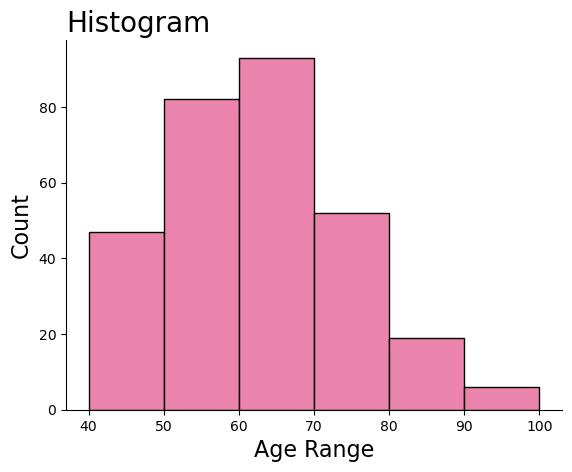
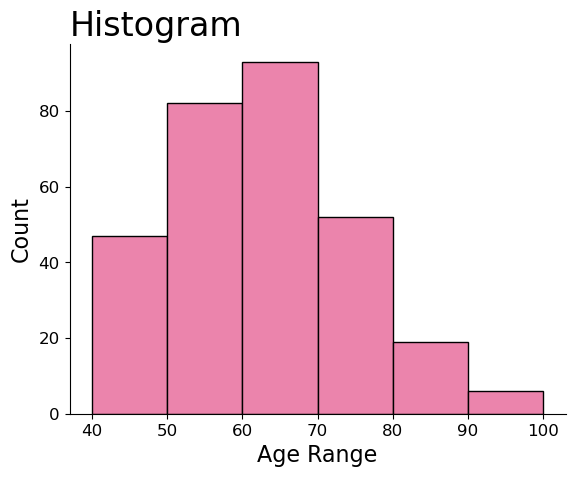
changed resolution of plot

Changed region(s): [[0.0, 0.0, 0.9808, 0.9788]]

diff --git a/index.html b/index.html
@@ -646,7 +646,7 @@ dtype: int64</code></pre>
 <pre><code>40.0</code></pre>
 </div>
 </div>
-<div class="cell" data-execution_count="62">
+<div class="cell" data-execution_count="69">
 <details open="">
 <summary>Code</summary>
 <div class="sourceCode cell-code" id="cb22"><pre class="sourceCode python code-with-copy"><code class="sourceCode python"><span id="cb22-1"><a href="#cb22-1" aria-hidden="true" tabindex="-1"></a>Figure1, Axes1 <span class="op">=</span> plt.subplots()</span>
@@ -658,18 +658,22 @@ dtype: int64</code></pre>
 <span id="cb22-7"><a href="#cb22-7" aria-hidden="true" tabindex="-1"></a></span>
 <span id="cb22-8"><a href="#cb22-8" aria-hidden="true" tabindex="-1"></a>Axes1.spines[<span class="st">"top"</span>].set_visible(<span class="va">False</span>)</span>
 <span id="cb22-9"><a href="#cb22-9" aria-hidden="true" tabindex="-1"></a>Axes1.spines[<span class="st">"right"</span>].set_visible(<span class="va">False</span>)</span>
-<span id="cb22-10"><a href="#cb22-10" aria-hidden="true" tabindex="-1"></a></span>
-<span id="cb22-11"><a href="#cb22-11" aria-hidden="true" tabindex="-1"></a>plt.title(label <span class="op">=</span> <span class="st">"Histogram"</span>,</span>
-<span id="cb22-12"><a href="#cb22-12" aria-hidden="true" tabindex="-1"></a>          loc <span class="op">=</span> <span class="st">"left"</span>,</span>
-<span id="cb22-13"><a href="#cb22-13" aria-hidden="true" tabindex="-1"></a>        fontsize <span class="op">=</span> <span class="dv">20</span>)</span>
-<span id="cb22-14"><a href="#cb22-14" aria-hidden="true" tabindex="-1"></a>plt.ylabel(ylabel <span class="op">=</span> <span class="st">"Count"</span>,</span>
-<span id="cb22-15"><a href="#cb22-15" aria-hidden="true" tabindex="-1"></a>           fontsize <span class="op">=</span> <span class="dv">16</span>)</span>
-<span id="cb22-16"><a href="#cb22-16" aria-hidden="true" tabindex="-1"></a>plt.xlabel(xlabel <span class="op">=</span> <span class="st">"Age Range"</span>,</span>
-<span id="cb22-17"><a href="#cb22-17" aria-hidden="true" tabindex="-1"></a>           fontsize <span class="op">=</span> <span class="dv">16</span>)</span>
-<span id="cb22-18"><a href="#cb22-18" aria-hidden="true" tabindex="-1"></a></span>
-<span id="cb22-19"><a href="#cb22-19" aria-hidden="true" tabindex="-1"></a>plt.savefig(<span class="st">"./Images/Figure1"</span>)</span>
-<span id="cb22-20"><a href="#cb22-20" aria-hidden="true" tabindex="-1"></a></span>
-<span id="cb22-21"><a href="#cb22-21" aria-hidden="true" tabindex="-1"></a>plt.show()</span></code><button title="Copy to Clipboard" class="code-copy-button"><i class="bi"></i></button></pre></div>
+<span id="cb22-10"><a href="#cb22-10" aria-hidden="true" tabindex="-1"></a>Axes1.yaxis.set_tick_params(labelsize <span class="op">=</span> <span class="dv">12</span>)</span>
+<span id="cb22-11"><a href="#cb22-11" aria-hidden="true" tabindex="-1"></a>Axes1.xaxis.set_tick_params(labelsize <span class="op">=</span> <span class="dv">12</span>)</span>
+<span id="cb22-12"><a href="#cb22-12" aria-hidden="true" tabindex="-1"></a></span>
+<span id="cb22-13"><a href="#cb22-13" aria-hidden="true" tabindex="-1"></a></span>
+<span id="cb22-14"><a href="#cb22-14" aria-hidden="true" tabindex="-1"></a>plt.title(label <span class="op">=</span> <span class="st">"Histogram"</span>,</span>
+<span id="cb22-15"><a href="#cb22-15" aria-hidden="true" tabindex="-1"></a>          loc <span class="op">=</span> <span class="st">"left"</span>,</span>
+<span id="cb22-16"><a href="#cb22-16" aria-hidden="true" tabindex="-1"></a>        fontsize <span class="op">=</span> <span class="dv">24</span>)</span>
+<span id="cb22-17"><a href="#cb22-17" aria-hidden="true" tabindex="-1"></a>plt.ylabel(ylabel <span class="op">=</span> <span class="st">"Count"</span>,</span>
+<span id="cb22-18"><a href="#cb22-18" aria-hidden="true" tabindex="-1"></a>           fontsize <span class="op">=</span> <span class="dv">16</span>)</span>
+<span id="cb22-19"><a href="#cb22-19" aria-hidden="true" tabindex="-1"></a>plt.xlabel(xlabel <span class="op">=</span> <span class="st">"Age Range"</span>,</span>
+<span id="cb22-20"><a href="#cb22-20" aria-hidden="true" tabindex="-1"></a>           fontsize <span class="op">=</span> <span class="dv">16</span>)</span>
+<span id="cb22-21"><a href="#cb22-21" aria-hidden="true" tabindex="-1"></a></span>
+<span id="cb22-22"><a href="#cb22-22" aria-hidden="true" tabindex="-1"></a>plt.savefig(fname <span class="op">=</span> <span class="st">"./Images/Figure1"</span>,</span>
+<span id="cb22-23"><a href="#cb22-23" aria-hidden="true" tabindex="-1"></a>            dpi <span class="op">=</span> <span class="dv">400</span>)</span>
+<span id="cb22-24"><a href="#cb22-24" aria-hidden="true" tabindex="-1"></a></span>
+<span id="cb22-25"><a href="#cb22-25" aria-hidden="true" tabindex="-1"></a>plt.show()</span></code><button title="Copy to Clipboard" class="code-copy-button"><i class="bi"></i></button></pre></div>
 </details>
 <div class="cell-output cell-output-display">
 <p><img src="index_files/figure-html/cell-17-output-1.png" class="img-fluid"></p>
